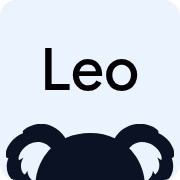
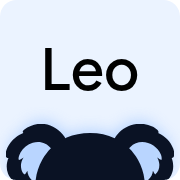
Поставить во вкладку иконку из кадра Figma 988:1642.
У коалы появилась светлая обводка, адрес файлов новый, чтобы вкладка забрала их заново.

diff --git a/src/app/layout.tsx b/src/app/layout.tsx
@@ -24,11 +24,12 @@ export const metadata: Metadata = {
     "Подбор проверенных реабилитационных центров для лечения и восстановления при зависимостях.",
   icons: {
     icon: [
-      { url: asset("/favicon.svg"), type: "image/svg+xml" },
-      { url: asset("/favicon.ico"), type: "image/x-icon" },
-      { url: asset("/brand/leo-tab.png"), type: "image/png", sizes: "32x32" },
+      { url: asset("/favicon-v9.svg"), type: "image/svg+xml" },
+      { url: asset("/favicon-v9.ico"), type: "image/x-icon", sizes: "32x32" },
+      { url: asset("/brand/tab-v9.png"), type: "image/png", sizes: "32x32" },
+      { url: asset("/brand/tab-v9-192.png"), type: "image/png", sizes: "192x192" },
     ],
-    apple: [{ url: asset("/brand/leo-apple.png"), sizes: "180x180", type: "image/png" }],
+    apple: [{ url: asset("/brand/tab-v9-180.png"), sizes: "180x180", type: "image/png" }],
   },
 };
 
